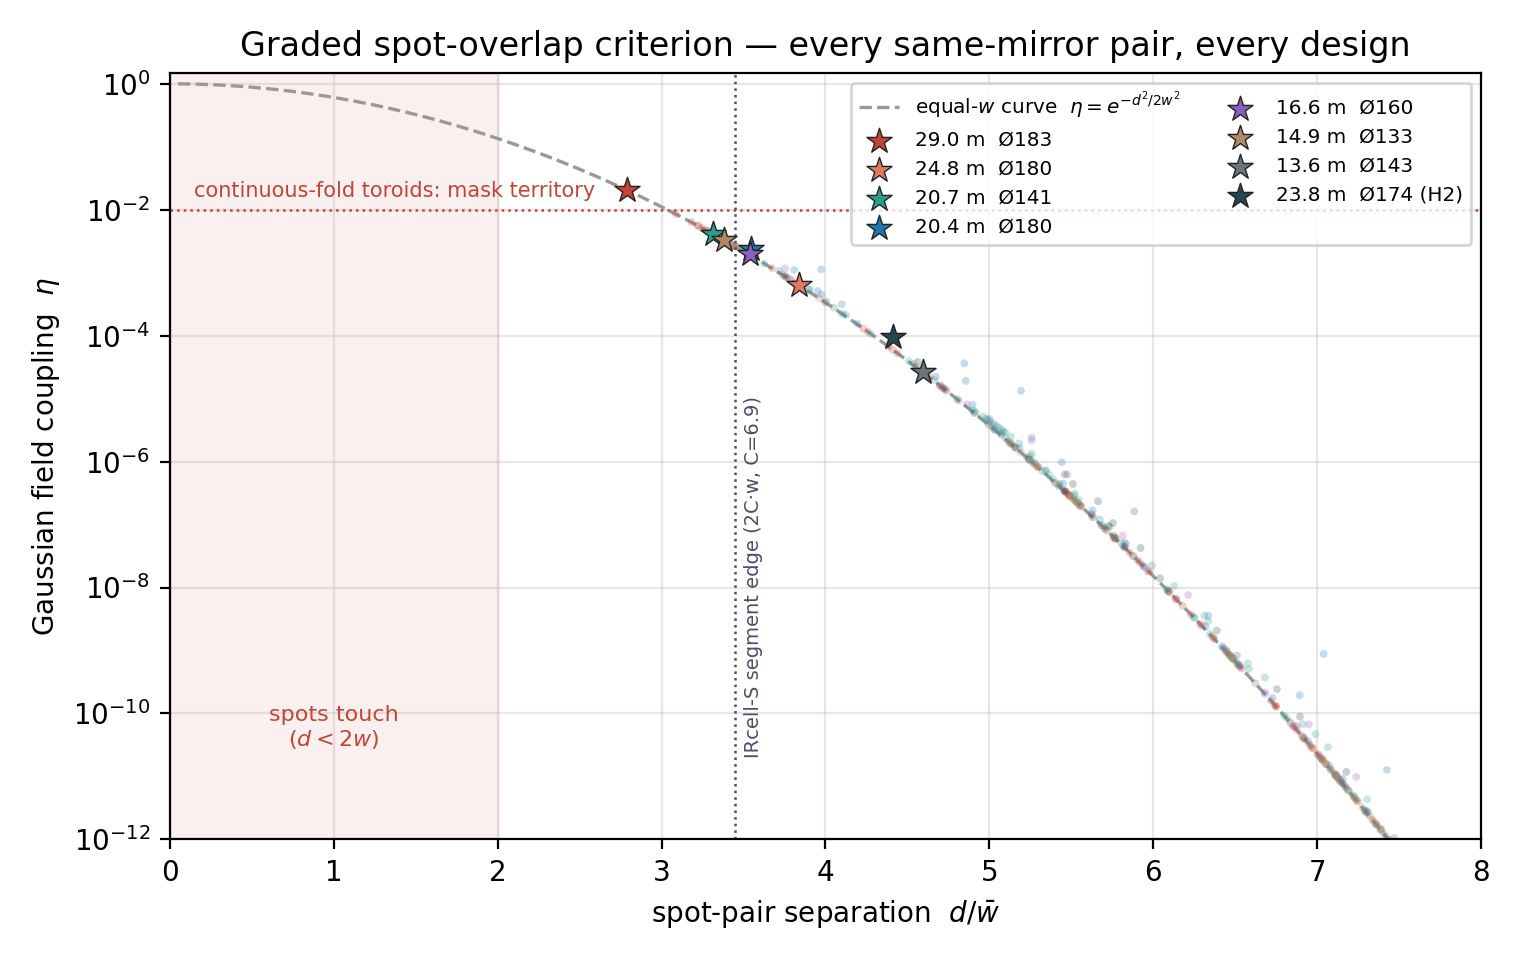
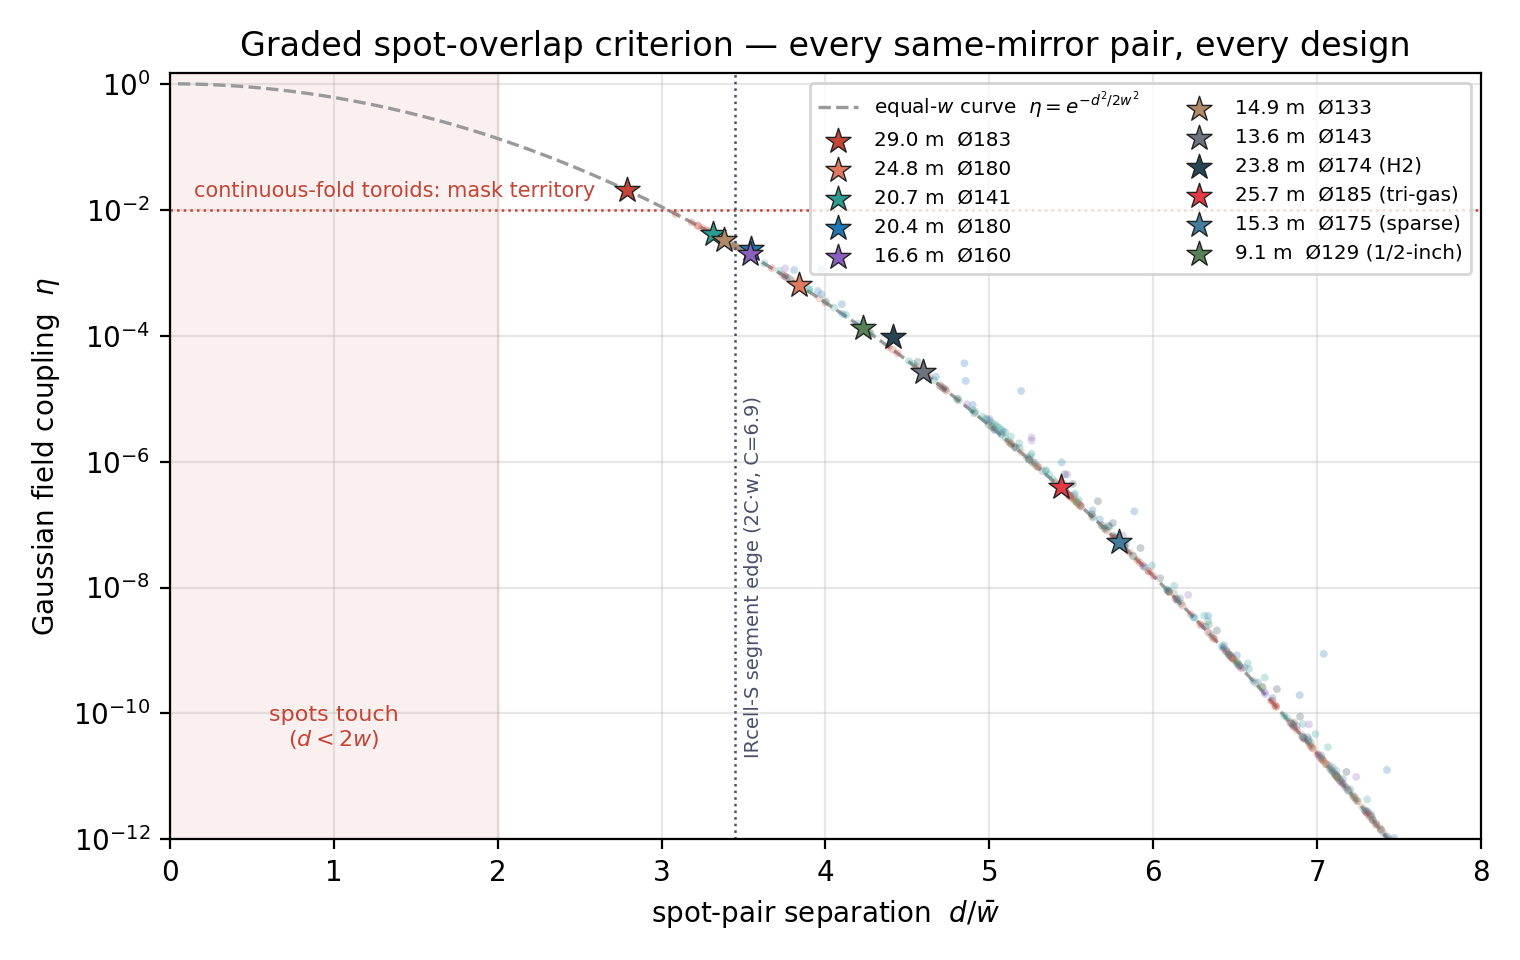
Overlap figure: all 11 robust designs incl. tri-gas/sparse/half-inch stars; mc400 and investigations drivers

diff --git a/_CURRENT/drone_20m/mc400.py b/_CURRENT/drone_20m/mc400.py
@@ -1,0 +1,87 @@
+"""400-trial paper-grade Monte-Carlo for the round's headline designs.
+
+The 100-trial robust_menu verdicts select the menu; the paper quotes
+400-trial statistics (like drone_20m and drone_24m_h2 already have).
+This runs flight-grade MC x400 on the three new stars and prints the
+paper numbers.
+
+Run from _CURRENT/:
+    ../.venv/Scripts/python.exe drone_20m/mc400.py
+"""
+from __future__ import annotations
+
+import os
+import sys
+from concurrent.futures import ProcessPoolExecutor
+
+import numpy as np
+import pandas as pd
+
+_HERE = os.path.dirname(os.path.abspath(__file__))
+sys.path.insert(0, os.path.dirname(_HERE))
+sys.path.insert(0, _HERE)
+
+PICKS = [
+    ("25.7 m tri-gas (spec_D190_26m)", "robust_menu_hardened_flight.csv",
+     "CM254-200-M01", 16, 176, 74.5, {}),
+    ("15.3 m sparse (spec_D180_15m)", "robust_menu_hardened_flight.csv",
+     "CM254-100-M01", 16, 112, 69.6, {}),
+    ("9.1 m half-inch mini (spec_D130_9m)",
+     "robust_menu_minihole_flight.csv", "CM127-050-M01", 14, 98, 51.6,
+     {"TMPC_W0": "0.8", "TMPC_HOLE_R": "0.8"}),
+]
+
+
+def run_one(pick):
+    name, menu, sku, n_mir, n_exit, rr, env = pick
+    for k, v in env.items():
+        os.environ[k] = v
+    from spec_asbuilt import cfg_from_row
+    from tmpc_platform_v5 import ToleranceSpec
+    from tmpc_platform_v5.tolerance import monte_carlo
+    d = pd.read_csv(os.path.join(_HERE, "designs", menu))
+    m = d[(d["sku"] == sku) & (d["N"] == n_mir) & (d["n_exit"] == n_exit)
+          & ((d["R_ring"] - rr).abs() < 0.5)]
+    row = m.iloc[0].to_dict()
+    cfg = cfg_from_row(row)
+    cfg.n_passes = int(row["n_exit"])
+    mc = monte_carlo(cfg, ToleranceSpec.flight_grade(), n_trials=400,
+                     seed=7, n_workers=1)
+    full = int(row["n_exit"])
+    out = {
+        "design": name,
+        "complete_frac": float((mc["bounces"] >= full).mean()),
+        "opl_mean_m": float(np.mean(mc["opl_m"])),
+        "opl_std_m": float(np.std(mc["opl_m"])),
+        "throughput_mean": float(np.mean(mc["throughput"])),
+        "walk_p95_mm": float(np.percentile(mc["spot_walk_mm"], 95)),
+        "min_sep_p05_mm": float(np.percentile(mc["min_spot_sep_mm"], 5)),
+        "hole_clear_p05_mm": float(np.nanpercentile(mc["hole_clear_mm"],
+                                                    5)),
+        "drift_p95_mrad": float(np.percentile(mc["exit_drift_mrad"], 95)),
+    }
+    return out
+
+
+def main() -> int:
+    rows = []
+    # one pick per single-use pool: the module-level HOLE_R/W0 constants
+    # are frozen at first import per process, so env-varying picks must
+    # not share workers
+    for pick in PICKS:
+        with ProcessPoolExecutor(max_workers=1) as ex:
+            r = list(ex.map(run_one, [pick]))[0]
+            rows.append(r)
+            print(f"{r['design']:38s} complete={r['complete_frac']*100:5.1f}%"
+                  f" walk_p95={r['walk_p95_mm']:.2f} "
+                  f"sep_p05={r['min_sep_p05_mm']:.2f} "
+                  f"holeclr_p05={r['hole_clear_p05_mm']:.2f} "
+                  f"drift_p95={r['drift_p95_mrad']:.1f} mrad", flush=True)
+    out = os.path.join(_HERE, "designs", "mc400_new_designs.csv")
+    pd.DataFrame(rows).to_csv(out, index=False)
+    print("wrote", out)
+    return 0
+
+
+if __name__ == "__main__":
+    sys.exit(main())

diff --git a/_CURRENT/drone_20m/investigations_new.py b/_CURRENT/drone_20m/investigations_new.py
@@ -1,0 +1,85 @@
+"""ROC-compensation / thermal-window / M2 studies for the new designs.
+
+Reuses investigations.py's study machinery on the feedback-round stars:
+  --which trigas26m : 25.72 m tri-gas champion (1", hole 1.3 mm)
+  --which mini9m    : 9.11 m half-inch mini cell (0.8 mm hole; env pins
+                      the search constants before import)
+
+Run from _CURRENT/ (once per design):
+    ../.venv/Scripts/python.exe drone_20m/investigations_new.py --which trigas26m
+    ../.venv/Scripts/python.exe drone_20m/investigations_new.py --which mini9m
+"""
+from __future__ import annotations
+
+import argparse
+import os
+import sys
+
+_ap = argparse.ArgumentParser()
+_ap.add_argument("--which", choices=["trigas26m", "mini9m"], required=True)
+A = _ap.parse_args()
+if A.which == "mini9m":
+    os.environ["TMPC_W0"] = "0.8"
+    os.environ["TMPC_HOLE_R"] = "0.8"
+    os.environ["TMPC_RADIAL_ALLOWANCE"] = "13.0"
+    os.environ["TMPC_ENVELOPE_MAX"] = "130.0"
+
+import pandas as pd                                               # noqa: E402
+
+_HERE = os.path.dirname(os.path.abspath(__file__))
+sys.path.insert(0, os.path.dirname(_HERE))
+sys.path.insert(0, _HERE)
+
+import investigations as inv                                      # noqa: E402
+
+SETUPS = {
+    "trigas26m": {"trigas_26m": "design_spec_D190_26m.json"},
+    "mini9m": {"mini_9m": "design_spec_D130_9m_halfinch.json"},
+}
+
+
+def main() -> int:
+    inv.DESIGNS = SETUPS[A.which]
+    out_dir = os.path.join(_HERE, "designs")
+    tag = A.which
+
+    print(f"=== ROC compensation ({tag}) ===", flush=True)
+    roc = inv.roc_study()
+    roc.to_csv(os.path.join(out_dir, f"study_roc_{tag}.csv"), index=False)
+
+    print(f"=== Thermal window ({tag}) ===", flush=True)
+    th = inv.thermal_study()
+    th.to_csv(os.path.join(out_dir, f"study_thermal_{tag}.csv"),
+              index=False)
+
+    print(f"=== M2 robustness ({tag}) ===", flush=True)
+    m2 = inv.m2_study()
+    m2.to_csv(os.path.join(out_dir, f"study_m2_{tag}.csv"), index=False)
+
+    name = list(inv.DESIGNS)[0]
+    lines = [f"## Engineering studies: {name}", ""]
+    ok = roc[roc.feasible]
+    if len(ok) >= 2:
+        slope = ((ok.dR_ring_mm.max() - ok.dR_ring_mm.min())
+                 / (ok.roc_err_pct.max() - ok.roc_err_pct.min()))
+        lines.append(f"* ROC-error compensation: linear ring trim "
+                     f"{slope:+.3f} mm per 1 % ROC error; feasible over "
+                     f"{ok.roc_err_pct.min():+.1f}.."
+                     f"{ok.roc_err_pct.max():+.1f} %.")
+    for mat in ("aluminium", "invar"):
+        lines.append(f"* Thermal window ({mat} ring, launch frozen): "
+                     f"{inv.window(th, name, mat)}.")
+    m2ok = m2[m2.feasible]
+    lines.append(f"* Beam quality: all checks pass to M2 = "
+                 f"{m2ok.M2.max():.2f}." if len(m2ok) else
+                 "* Beam quality: M2 sweep failed nominal - inspect.")
+    md = os.path.join(out_dir, "investigations_addendum.md")
+    with open(md, "a", encoding="utf-8") as fh:
+        fh.write("\n".join(lines) + "\n\n")
+    print("\n".join(lines))
+    print(f"appended -> {md}")
+    return 0
+
+
+if __name__ == "__main__":
+    sys.exit(main())

diff --git a/_CURRENT/drone_20m/feedback_figures.py b/_CURRENT/drone_20m/feedback_figures.py
@@ -72,22 +72,28 @@ def new_design_3d():
 # 2. graded spot-overlap criterion figure
 # ---------------------------------------------------------------------------
 MENU_LABELS = {
-    ("CM254-750-M01", 12, 204): ("29.0 m  Ø183", "#c44536"),
-    ("CM254-200-M01", 16, 176): ("24.8 m  Ø180", "#e07a5f"),
-    ("CM254-500-M01", 12, 204): ("20.7 m  Ø141", "#2a9d8f"),
-    ("CM254-150-M01", 16, 144): ("20.4 m  Ø180", "#1f77b4"),
-    ("CM254-150-M01", 13, 143): ("16.6 m  Ø160", "#8a5fbf"),
-    ("CM254-150-M01", 10, 190): ("14.9 m  Ø133", "#b08968"),
-    ("CM254-250-M01", 12, 132): ("13.6 m  Ø143", "#6c757d"),
+    # (sku, N, n_exit, R_ring rounded to integer mm)
+    ("CM254-750-M01", 12, 204, 74): ("29.0 m  Ø183", "#c44536"),
+    ("CM254-200-M01", 16, 176, 75): ("25.7 m  Ø185 (tri-gas)", "#e63946"),
+    ("CM254-200-M01", 16, 176, 72): ("24.8 m  Ø180", "#e07a5f"),
+    ("CM254-200-M01", 16, 176, 69): ("23.8 m  Ø174 (H2)", "#264653"),
+    ("CM254-500-M01", 12, 204, 52): ("20.7 m  Ø141", "#2a9d8f"),
+    ("CM254-150-M01", 16, 144, 72): ("20.4 m  Ø180", "#1f77b4"),
+    ("CM254-150-M01", 13, 143, 62): ("16.6 m  Ø160", "#8a5fbf"),
+    ("CM254-100-M01", 16, 112, 70): ("15.3 m  Ø175 (sparse)", "#457b9d"),
+    ("CM254-150-M01", 10, 190, 48): ("14.9 m  Ø133", "#b08968"),
+    ("CM254-250-M01", 12, 132, 53): ("13.6 m  Ø143", "#6c757d"),
+    ("CM127-050-M01", 14, 98, 52): ("9.1 m  Ø129 (1/2-inch)", "#588157"),
 }
-H2_KEY = ("CM254-200-M01", 16, 176, 69.01)
 
 
 def load_menu_rows():
     rows, seen = [], set()
     for f, lam in (("robust_menu.csv", 1654.0),
                    ("robust_menu_flight.csv", 1654.0),
-                   ("robust_menu_h2_flight.csv", 2121.8)):
+                   ("robust_menu_h2_flight.csv", 2121.8),
+                   ("robust_menu_hardened_flight.csv", 1654.0),
+                   ("robust_menu_minihole_flight.csv", 1654.0)):
         p = os.path.join(_HERE, "designs", f)
         if not os.path.exists(p):
             continue
@@ -95,19 +101,13 @@ def load_menu_rows():
         d = d[d["robust"] | d["robust_trim"]]
         for _, r in d.iterrows():
             key = (r["sku"], int(r["N"]), int(r["n_exit"]),
-                   round(float(r["R_ring"]), 0))
-            if key in seen:
+                   int(round(float(r["R_ring"]), 0)))
+            if key in seen or key not in MENU_LABELS:
                 continue
             seen.add(key)
             row = r.to_dict()
             row["lambda_nm"] = lam
-            k3 = key[:3]
-            if abs(key[3] - 69.01) < 0.05 and k3 == H2_KEY[:3]:
-                row["_label"], row["_color"] = "23.8 m  Ø174 (H2)", "#264653"
-            elif k3 in MENU_LABELS:
-                row["_label"], row["_color"] = MENU_LABELS[k3]
-            else:
-                continue
+            row["_label"], row["_color"] = MENU_LABELS[key]
             rows.append(row)
     return rows
 